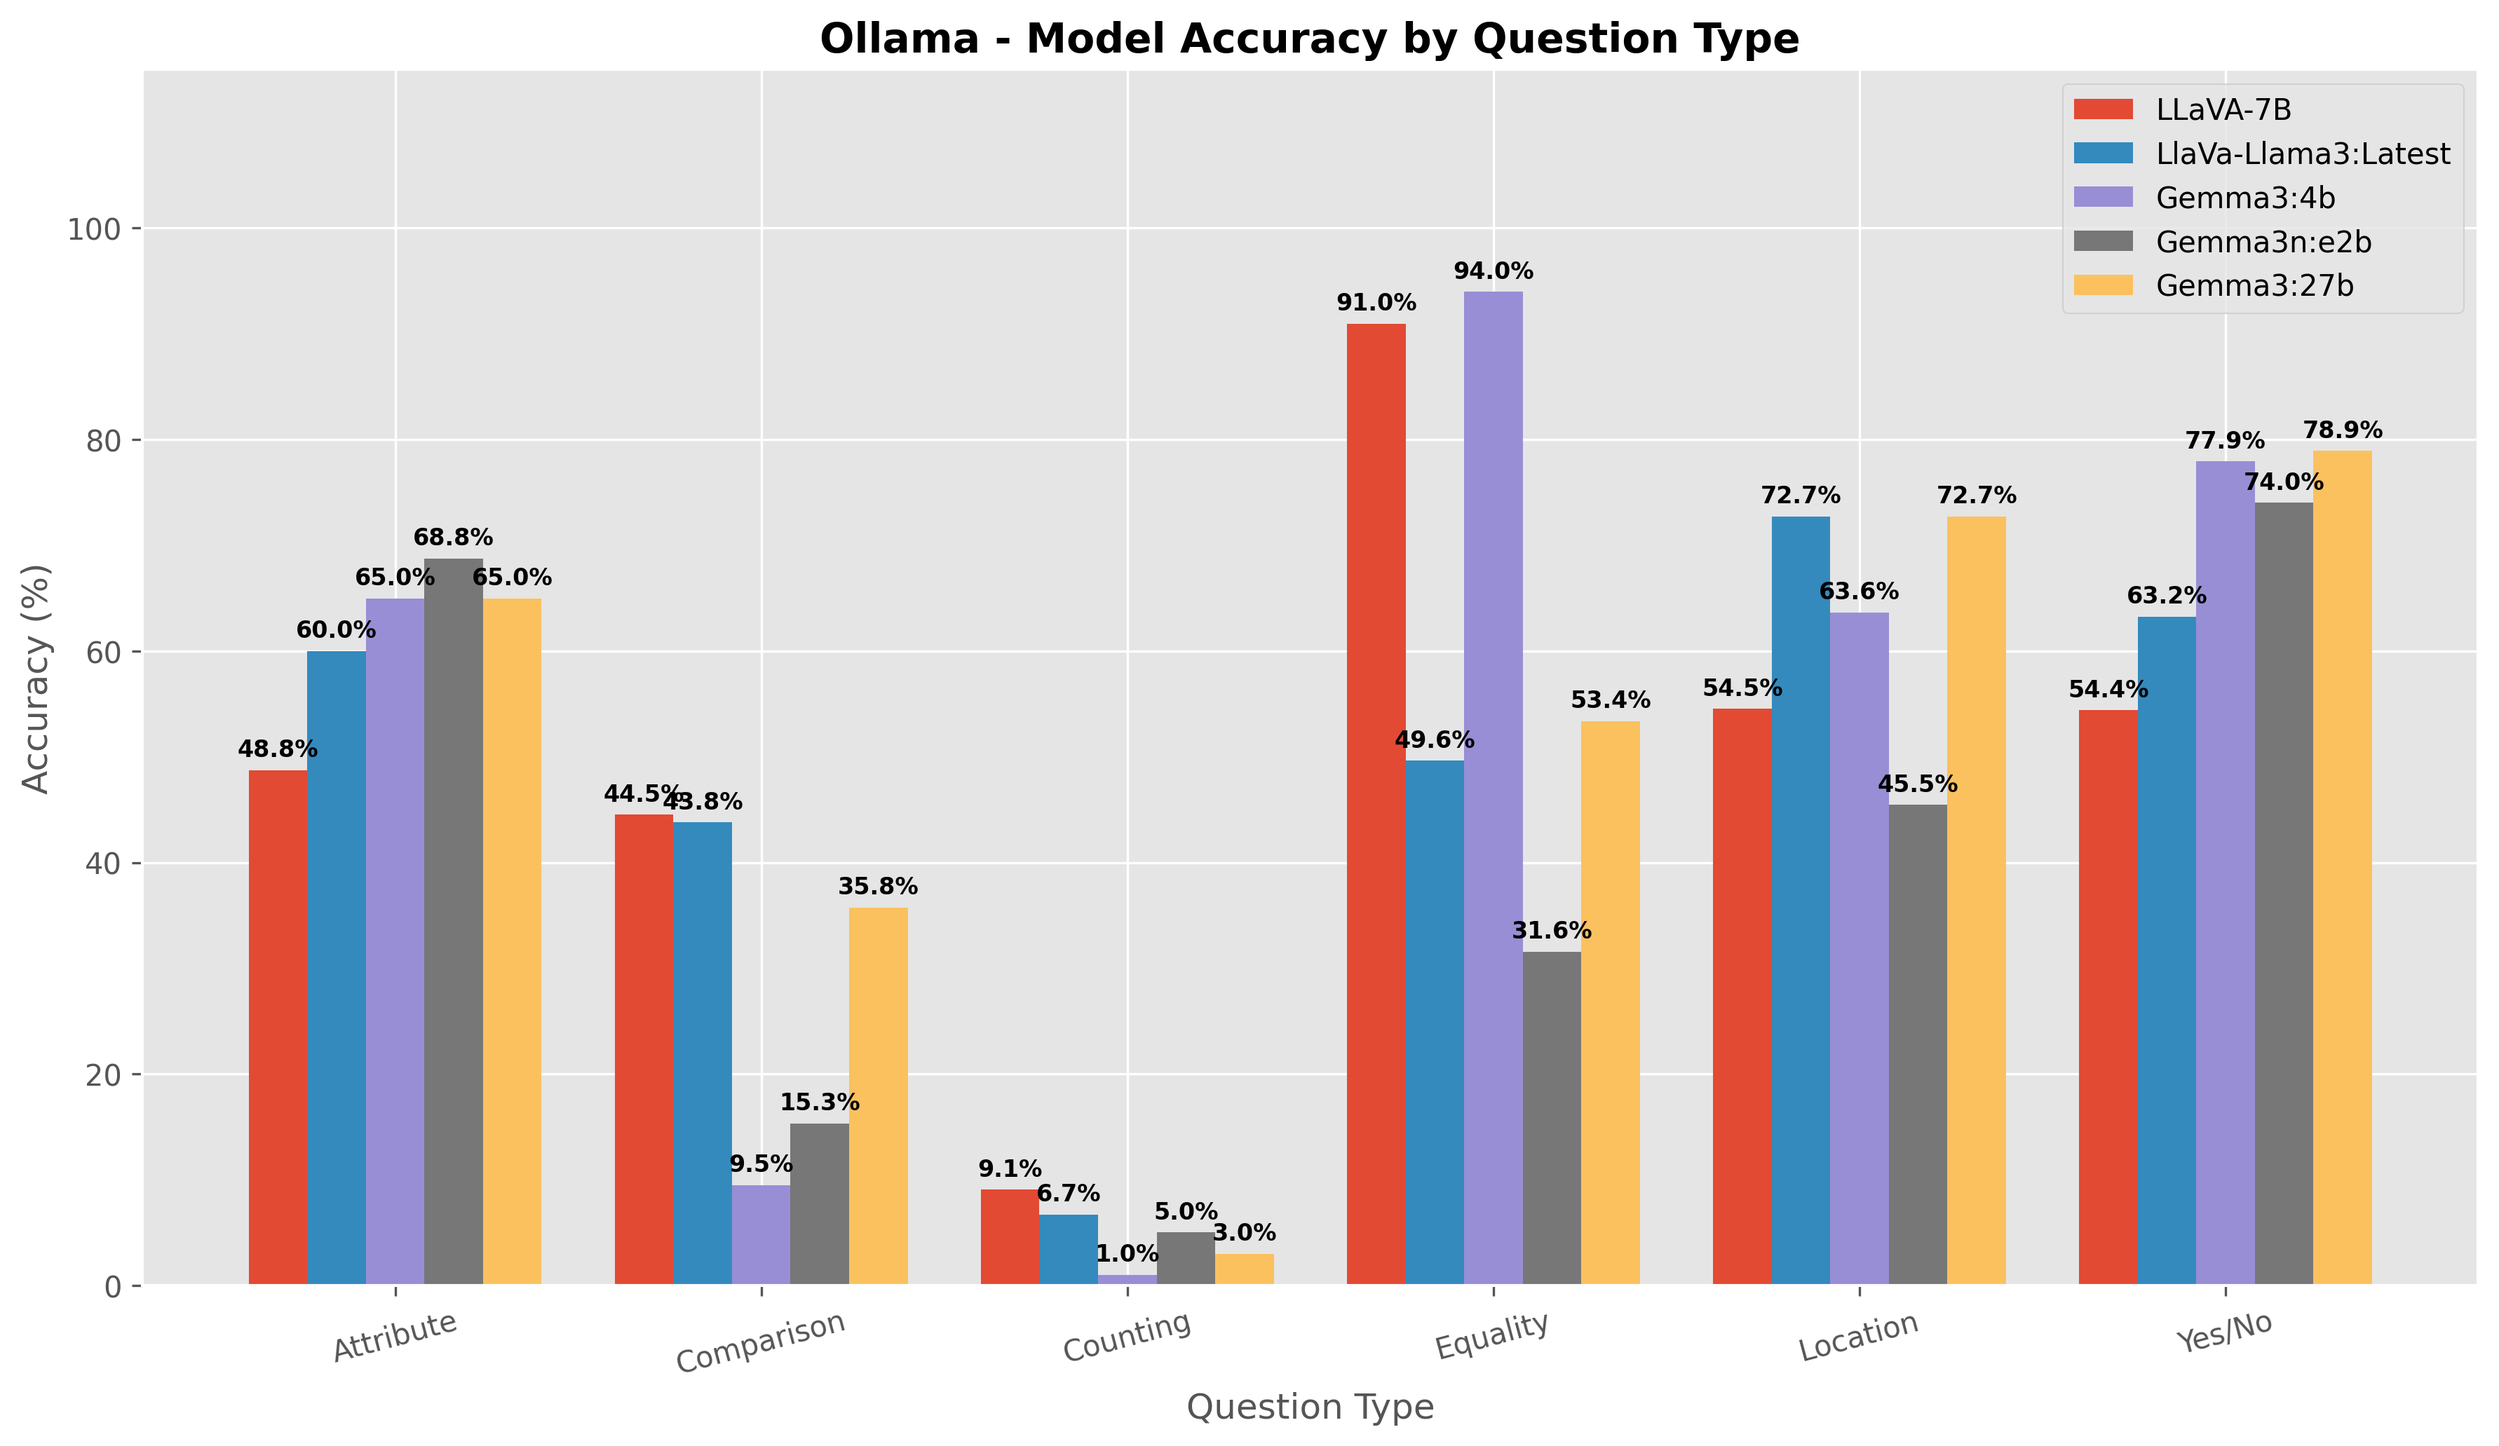
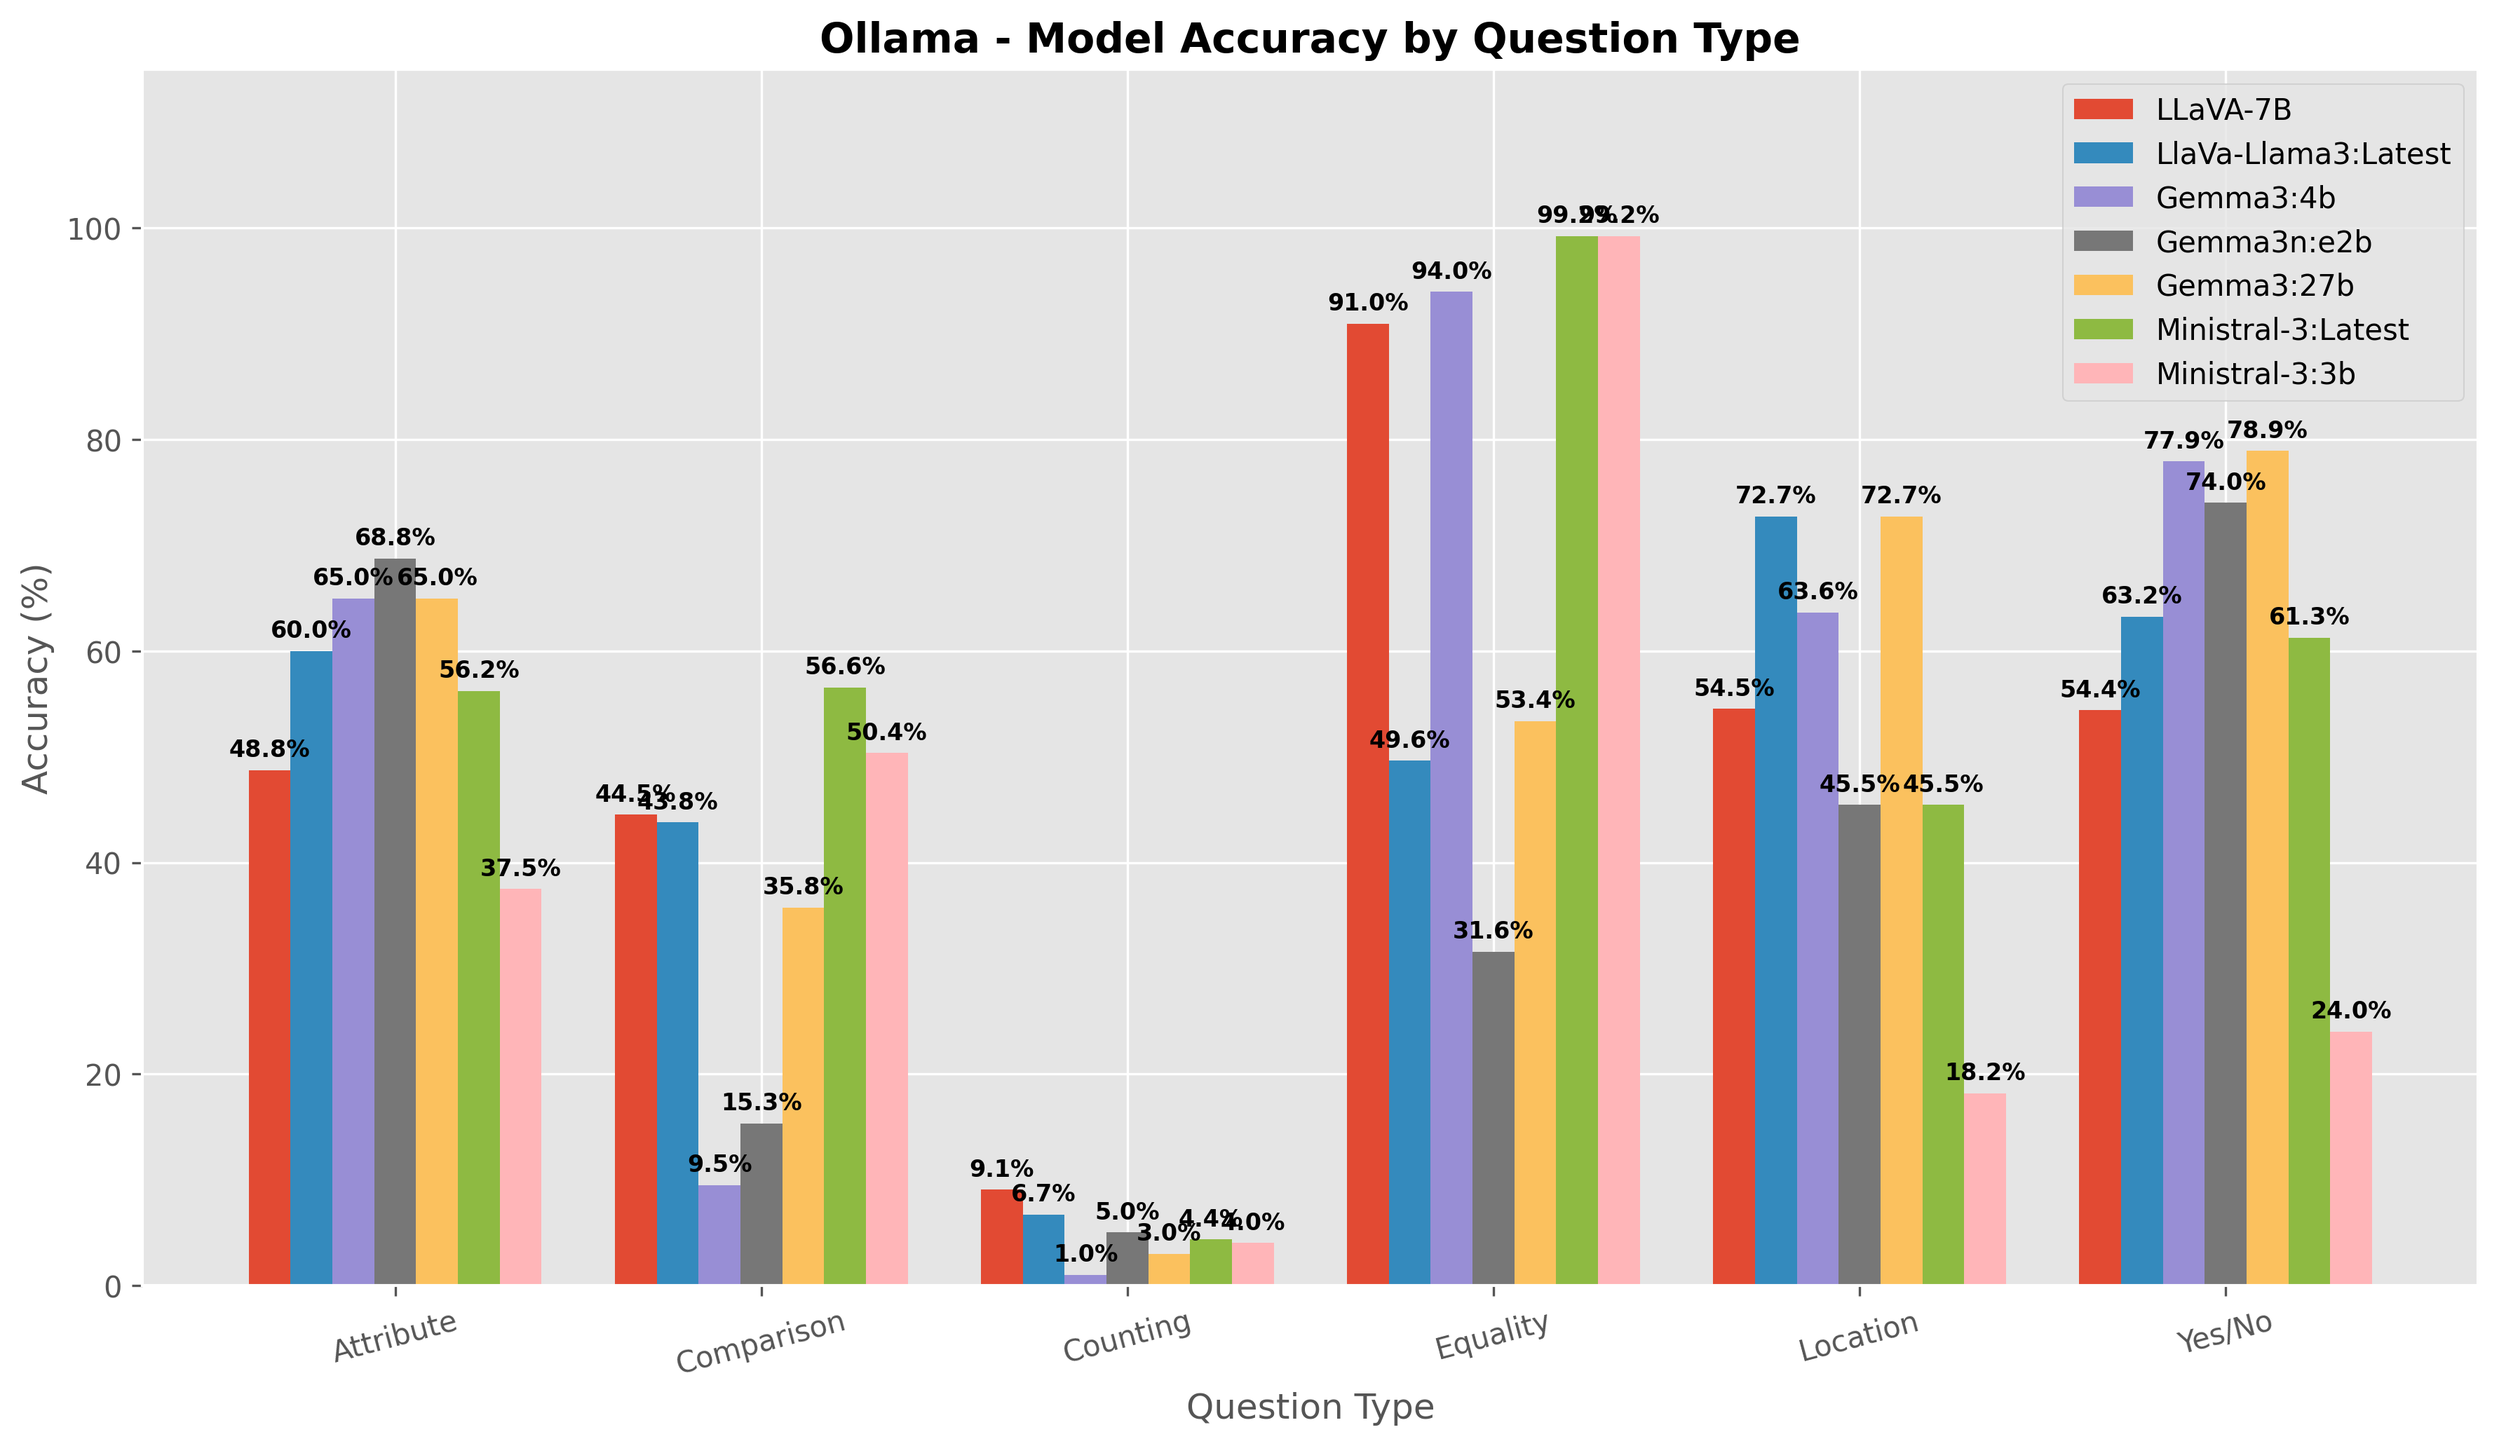
Smoothed Latency Test + Ministral Model Benchmarks

Changed region(s): [[0.4049, 0.1241, 0.9655, 0.8997], [0.0934, 0.3413, 0.218, 0.8997], [0.2492, 0.4343, 0.3737, 0.8997]]

diff --git a/plots.py b/plots.py
@@ -125,7 +125,9 @@ def plot_latency(cfg):
         fig, ax = plt.subplots(figsize=(10, 6))
         for model, file in models.items():
             df = load_csv(cfg["results_dir"], file)
-            ax.plot(df["latency_sec"], label=model, linewidth=2)
+            df = df.iloc[1:]
+            smoothed = df["latency_sec"].rolling(window=10).mean()
+            ax.plot(smoothed, label=model, linewidth=2)
         ax.set_xlabel("Iteration")
         ax.set_ylabel("Latency (s)")
         ax.set_title(f"{engine} - Latency per Prompt", weight="bold")

diff --git a/models.md b/models.md
@@ -23,3 +23,6 @@ llava-hf/llava-1.5-7b-hf id ran at normal temp: ~40 C
 gemma3:4b is ran at normal temp: ~40 C
 gemma3n:e2b is ran at normal temp: ~40 C
 gemma3:27b is ran at normal temp: ~40 C
+
+ministral-3:latest is ran at normal temp: ~40 C
+ministral-3:3b is ran at normal temp: ~40 C 
